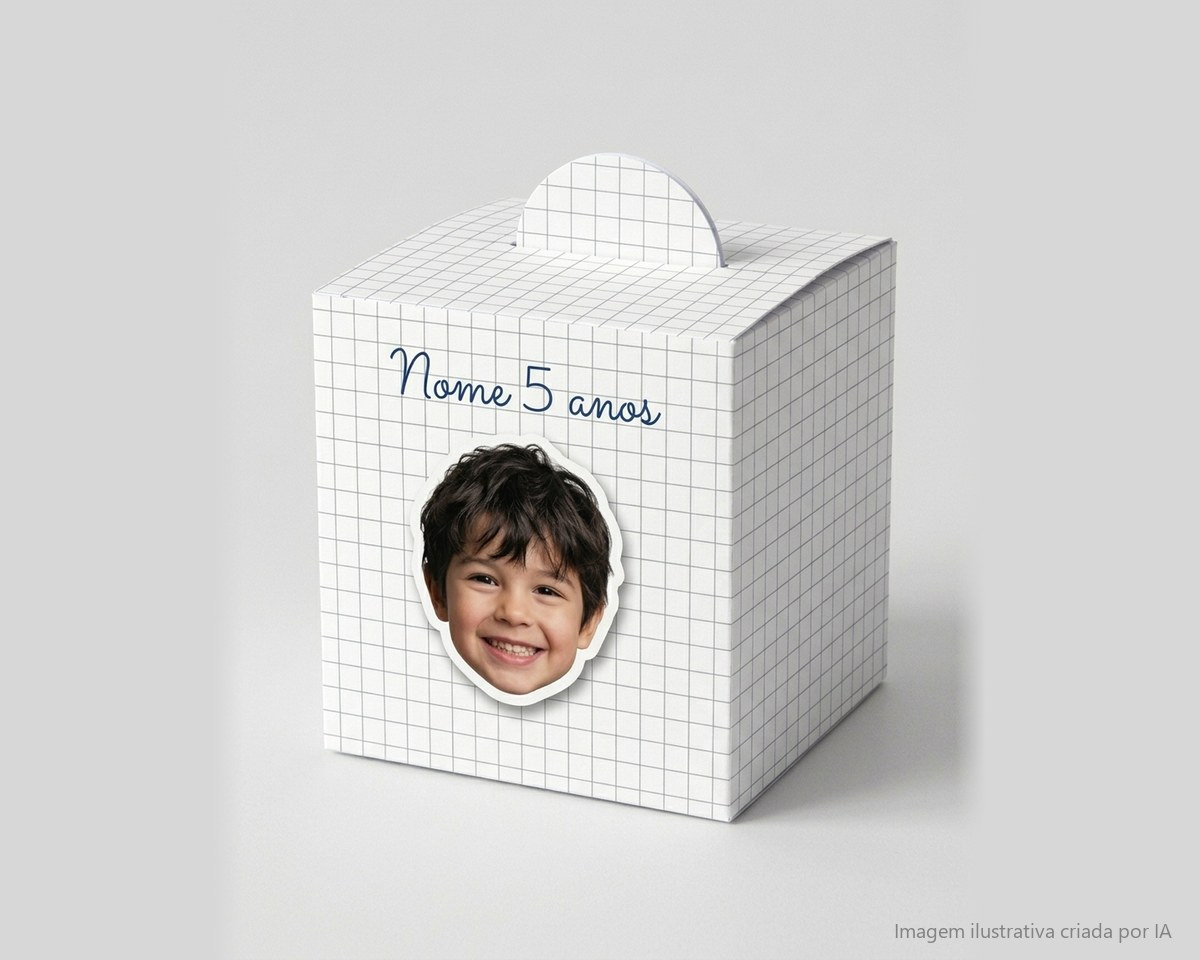
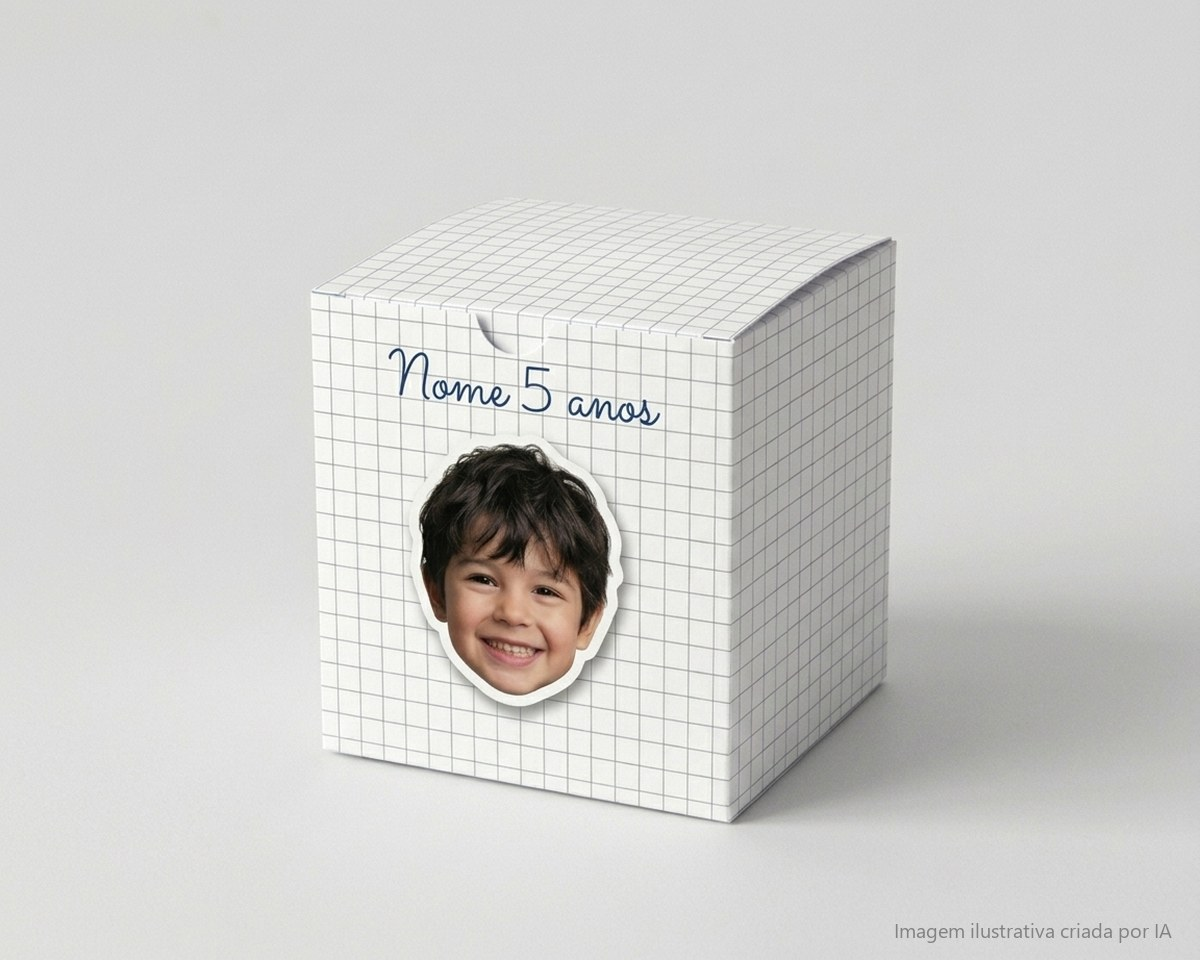
Caixa Cubo no Quadriculado: foto nova, horizontal 5:4 e com o topo liso

Changed region(s): [[0.2467, 0.1562, 0.7092, 0.8438], [0.8017, 0.5938, 1.0, 0.8438]]

diff --git a/index.html b/index.html
@@ -1216,7 +1216,7 @@ const FAIXAS = [
    ilustração (veja fotos/LEIA-ME.txt). Enquanto o arquivo não existir, o site mostra a ilustração. */
 /* Versão das fotos: quando trocar uma foto, mude este número para os navegadores baixarem a nova na hora,
    em vez de mostrarem a antiga que ficou guardada */
-const FOTOS_VERSAO = '2026-10-18c';
+const FOTOS_VERSAO = '2026-10-18d';
 const FOTO = {
   topo:    `fotos/topo.jpg?v=${FOTOS_VERSAO}`,
   historia:`fotos/historia.jpg?v=${FOTOS_VERSAO}`,
